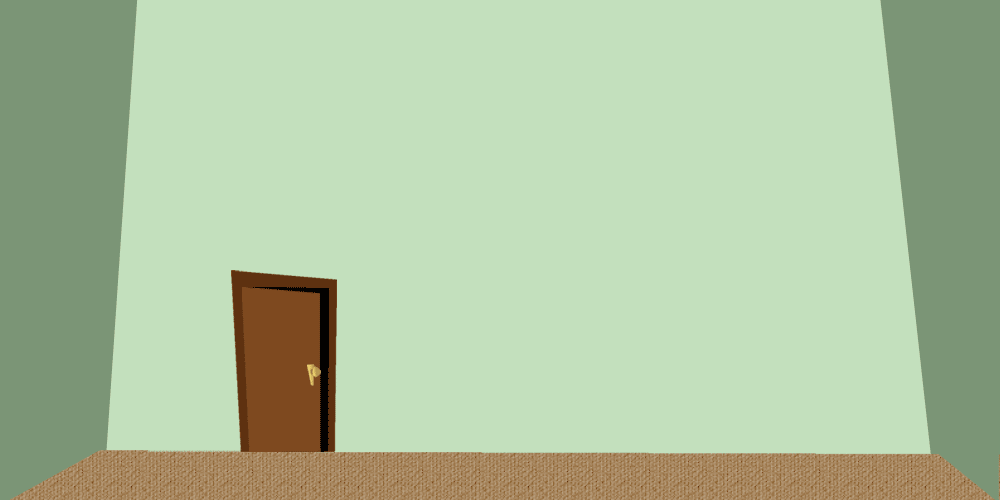
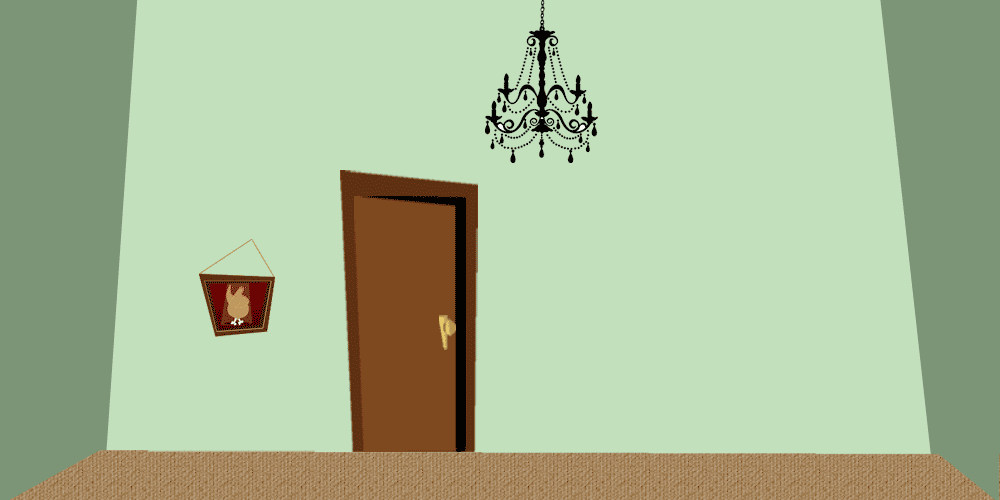
a bunch of styling changes
change background
change current player to images
add header

Changed region(s): [[0.186, 0.33, 0.496, 0.93], [0.465, 0.0, 0.62, 0.33]]

diff --git a/public/index.html b/public/index.html
@@ -16,9 +16,11 @@
     <link rel="stylesheet" type="text/css" href="stylesheets/hairballistics.css" />
 </head>
 <body>
-    <h1>Hairballistics</h1>
-    <div>Current player is <span id="current_player"></span></div>
-    <div>Your current score is <span id="scores"></span></div>
+    <div id="header">
+        <img class="logo" src="images/hairballistics_logo.png" />
+        <span class="player">Current player: <img id="current_player"/></span>
+        <span class="score">Your current score is <span id="scores"></span></span>
+    </div>
     <div id="game">
     </div>
 </body>

diff --git a/public/stylesheets/hairballistics.css b/public/stylesheets/hairballistics.css
@@ -6,3 +6,18 @@ canvas {
     background-image : url('../images/hairbaillistics_roomBG.png');
     background-repeat: no-repeat;
 }
+
+#header {
+    width: 1000px;
+    height: 100px;
+    text-align: right;
+}
+
+#header .logo {
+    width: 600px;
+    float: left;
+}
+
+#header .player {
+    display: block;
+}

diff --git a/public/javascripts/Renderer.js b/public/javascripts/Renderer.js
@@ -73,7 +73,7 @@ var Renderer = function(container, world) {
     };
 
     var setCurrentPlayer = function(name) {
-        document.getElementById('current_player').innerHTML = name;
+        document.getElementById('current_player').src = "images/" + name;
     };
 
     var setScoreMessage = function(score) {
